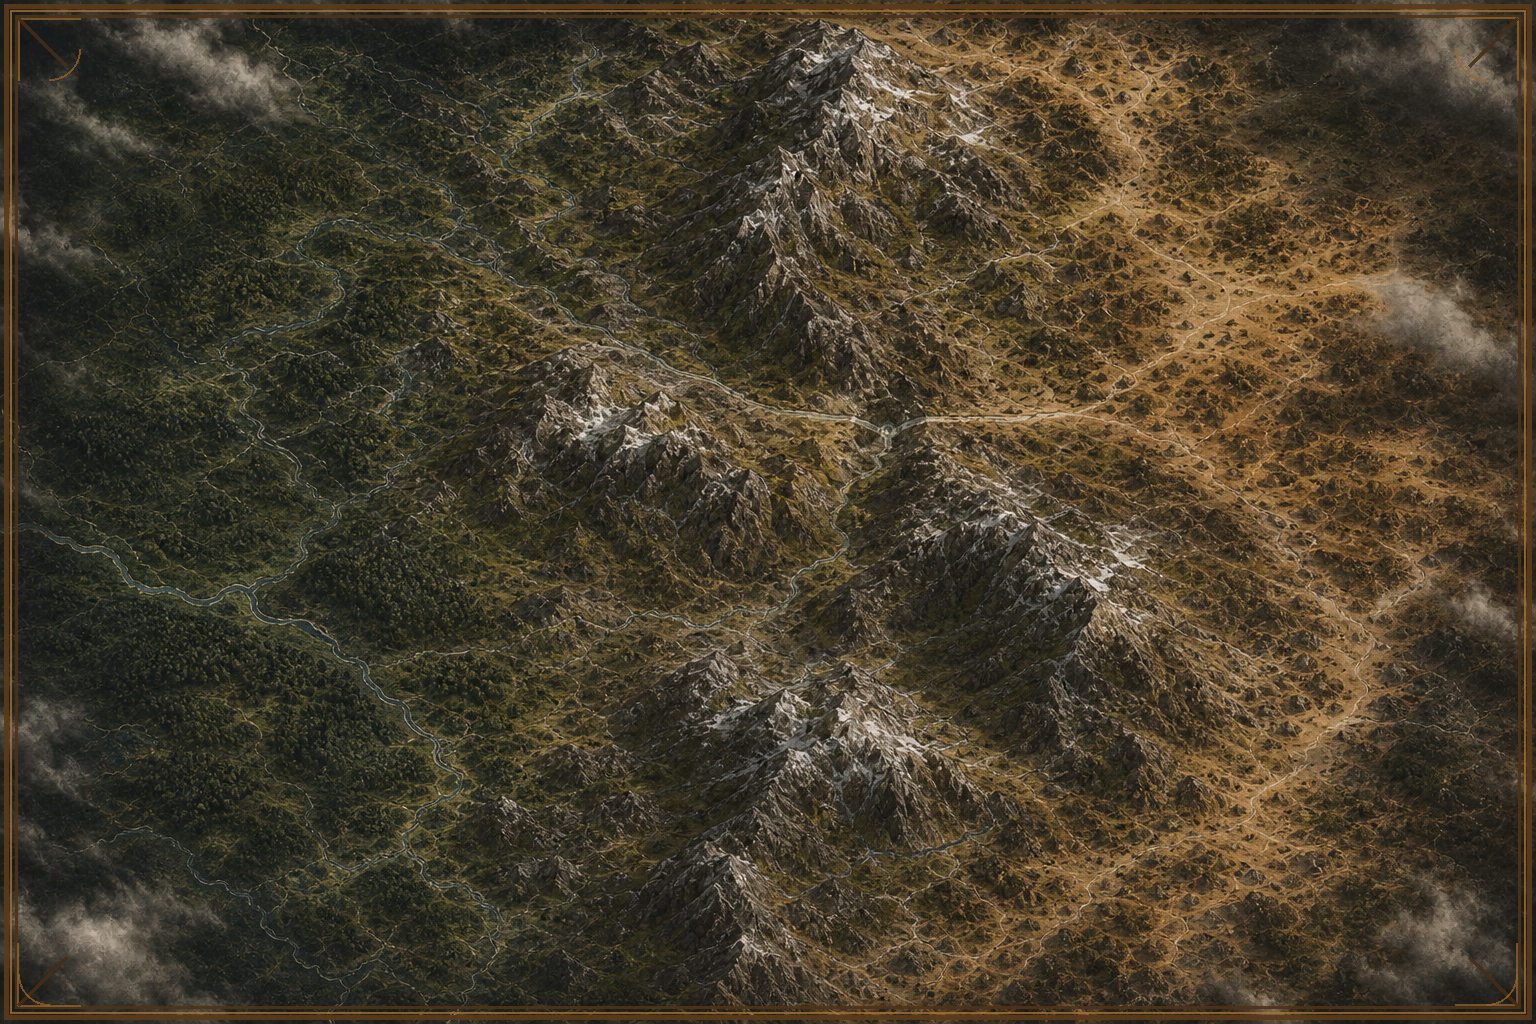
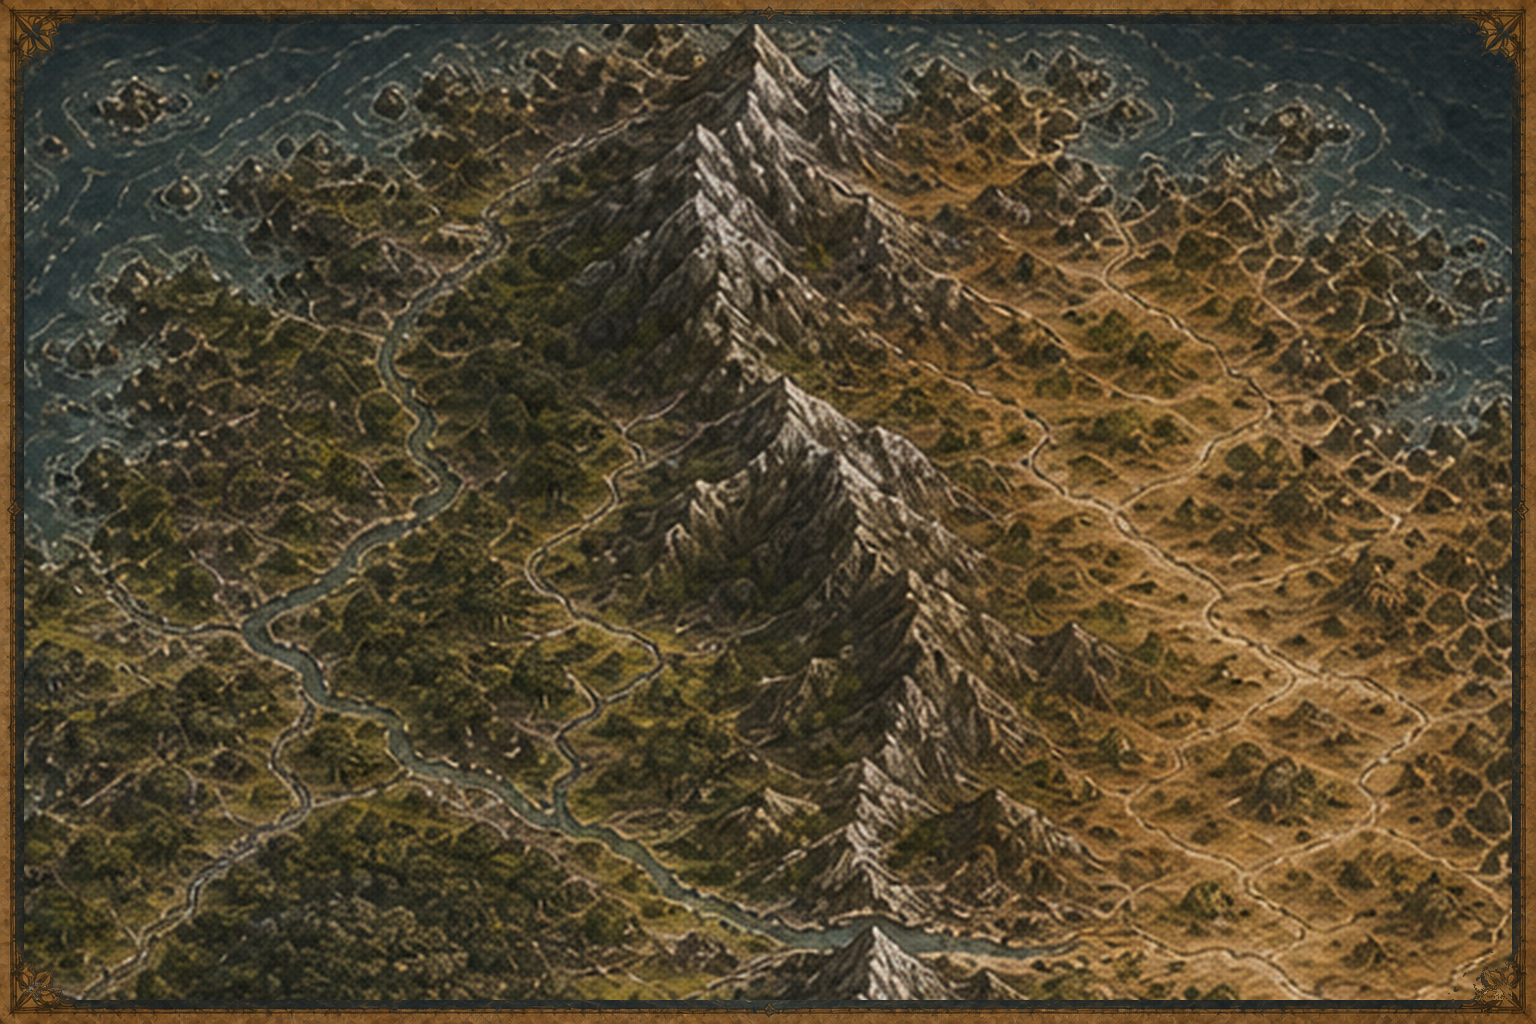
Anchor regional maps to Prototype 3 masters

diff --git a/14 - Assets/Maps/build_prototype3_regions.py b/14 - Assets/Maps/build_prototype3_regions.py
@@ -1,0 +1,133 @@
+#!/usr/bin/env python3
+"""Build selected regional sheets as literal Prototype 3 master enlargements.
+
+These four sheets previously drifted because image generation reinterpreted
+their geography. Each output now starts with an exact crop of its continent
+master. Resampling reveals the existing terrain at regional scale without
+inventing a new coastline, watershed, or river network.
+"""
+
+from __future__ import annotations
+
+from dataclasses import dataclass
+from pathlib import Path
+
+import numpy as np
+from PIL import Image, ImageEnhance, ImageFilter, PngImagePlugin
+
+
+ROOT = Path(__file__).resolve().parent
+PROTOTYPE = ROOT / "prototype3"
+SIZE = (1536, 1024)
+
+
+@dataclass(frozen=True)
+class Region:
+    output: str
+    parent: str
+    crop: tuple[int, int, int, int]
+
+
+# Crop boxes are (left, top, right, bottom) in the 1536 x 1024 masters.
+# Every box preserves the output's 3:2 aspect ratio.
+REGIONS = (
+    Region(
+        "Sacred-Core-Atlas.png",
+        "Maiethorn-Atlas.png",
+        (450, 330, 930, 650),
+    ),
+    Region(
+        "Rain-Wall-Atlas.png",
+        "Maiethorn-Atlas.png",
+        (500, 30, 1100, 430),
+    ),
+    Region(
+        "Chart-Run-Atlas.png",
+        "Strandoren-Atlas.png",
+        (360, 160, 1320, 800),
+    ),
+    Region(
+        "West-Water-Atlas.png",
+        "Strandoren-Atlas.png",
+        (0, 280, 960, 920),
+    ),
+)
+
+
+def apply_master_frame(image: Image.Image, master: Image.Image) -> Image.Image:
+    """Apply the parent's exact bronze rules and corner ornament."""
+    result = image.copy()
+    band = 24
+    result.paste(master.crop((0, 0, SIZE[0], band)), (0, 0))
+    result.paste(
+        master.crop((0, SIZE[1] - band, SIZE[0], SIZE[1])),
+        (0, SIZE[1] - band),
+    )
+    result.paste(master.crop((0, 0, band, SIZE[1])), (0, 0))
+    result.paste(
+        master.crop((SIZE[0] - band, 0, SIZE[0], SIZE[1])),
+        (SIZE[0] - band, 0),
+    )
+
+    # The corner flourishes extend beyond the rule. Copy only warm bronze
+    # pixels so no square of the master's ocean comes with the ornament.
+    master_pixels = np.asarray(master, dtype=np.int16)
+    red, green, blue = (
+        master_pixels[..., 0],
+        master_pixels[..., 1],
+        master_pixels[..., 2],
+    )
+    warm = (
+        (red > blue + 14)
+        & (green > blue + 4)
+        & (red > green + 4)
+        & ((red + green + blue) > 125)
+    )
+    corner_mask = np.zeros((SIZE[1], SIZE[0]), dtype=np.uint8)
+    corner = 96
+    for left, top in (
+        (0, 0),
+        (SIZE[0] - corner, 0),
+        (0, SIZE[1] - corner),
+        (SIZE[0] - corner, SIZE[1] - corner),
+    ):
+        area = warm[top : top + corner, left : left + corner]
+        corner_mask[top : top + corner, left : left + corner] = area * 255
+    mask = Image.fromarray(corner_mask, "L").filter(ImageFilter.GaussianBlur(0.4))
+    result.paste(master, (0, 0), mask)
+    return result
+
+
+def build(region: Region) -> None:
+    parent_path = PROTOTYPE / region.parent
+    master = Image.open(parent_path).convert("RGB")
+    if master.size != SIZE:
+        raise ValueError(f"{parent_path} must be {SIZE}, found {master.size}")
+
+    crop = master.crop(region.crop)
+    image = crop.resize(SIZE, Image.Resampling.LANCZOS)
+    # A restrained local-scale lift compensates for enlargement without
+    # changing Prototype 3's palette or weather.
+    image = ImageEnhance.Sharpness(image).enhance(1.12)
+    image = ImageEnhance.Contrast(image).enhance(1.02)
+    image = apply_master_frame(image, master)
+
+    metadata = PngImagePlugin.PngInfo()
+    metadata.add_text("atlas_parent", f"prototype3/{region.parent}")
+    metadata.add_text("atlas_crop", ",".join(map(str, region.crop)))
+    metadata.add_text(
+        "canon_note",
+        "Exact parent geography; incidental painted texture remains non-canon.",
+    )
+    output = ROOT / region.output
+    image.save(output, pnginfo=metadata, optimize=True)
+    print(f"Wrote {output} from {parent_path} crop {region.crop}")
+
+
+def main() -> None:
+    for region in REGIONS:
+        build(region)
+
+
+if __name__ == "__main__":
+    main()

diff --git a/00 - Core/Meta/Roadmap.md b/00 - Core/Meta/Roadmap.md
@@ -523,7 +523,7 @@ Ordinary-job characters who become structural pivots. Draw from offices 7.2–7.
 
 > Manual tally — update when checking boxes. (Story/Task counts, not epics.)
 
-- **Atlas follow-up:** 8 / 8 regional sheets rebuilt and visually reviewed ✅ **2026-09-01.** Prototype 3 continent masters remain authoritative for the selected set; region-parent provenance and the non-canon interpolation boundary are recorded on [[The Atlas Sheets]] and [[Map Generation Tooling]]. Rain-Wall uses offset massifs, saddles, foothills, river notches, and pass gaps. Thaeloren remains the only exceptional Tree. World book untouched.
+- **Atlas follow-up:** 8 / 8 regional sheets rebuilt and visually reviewed ✅ **2026-09-01.** Second review corrected four parent-continuity failures: Sacred Core, Rain-Wall, Chart-run, and West Water are now deterministic literal enlargements from Prototype 3 masters via `build_prototype3_regions.py`. Region-parent provenance and the non-canon interpolation boundary are recorded on [[The Atlas Sheets]] and [[Map Generation Tooling]]. Thaeloren remains the only exceptional Tree. World book untouched.
 - **Epic 7 leftover — sick-Tree / guest-grove:** 4 / 4 tasks (100%) ✅ **2026-08-31.** [[The Mill-hold]] (Hands un-Hands; mill-race vs roots) · [[The First Bowl]] (guest-grove; two settings of one bowl). Lead road-end still a type. World book untouched.
 - **Pass two — verification:** 3 / 3 tasks of P2.1 (100%) ✅ **Story P2.1 complete 2026-08-31.** Later pass-two stories undecomposed. C-01 resolved; C-05 resolved in passing with the opening. **C-02 resolved 2026-08-31** by user-requested world-book rebuild. **C-06 resolved 2026-08-31** (Kumbaan "few or no Trees" hedge → no Tree).
 - **Epic 9 — Secrets & Canon:** 4 / 4 tasks of Story 9.1 (100%) ✅ **architecture done 2026-08-31.** Hub [[Revelation Architecture]] · [[Reveal Index]]. Clues [[The Uncoloured Intake]] · [[The Closed Lamp]]. Still alongside for new `reveals:`.

diff --git a/14 - Assets/Maps/Map Generation Tooling.md b/14 - Assets/Maps/Map Generation Tooling.md
@@ -116,6 +116,14 @@ local-scale detail required by the regional subject.
 | R7 Live Front | `prototype3/Heskoren-Atlas.png` |
 | R8 Waiting Vale | `prototype3/Heskoren-Atlas.png` |
 
+Four sheets that failed the visual parent-continuity check are now built as literal master enlargements rather than fresh generations:
+
+```bash
+python3 "14 - Assets/Maps/build_prototype3_regions.py"
+```
+
+The script records the parent filename and crop rectangle in each PNG. Sacred Core and Rain-Wall come directly from Maiethorn; Chart-run and West Water come directly from Strandoren. It applies the parent's own bronze rules and corner ornament after enlargement. Do not replace those four with independently generated scenes: local detail is allowed only as an overpaint that leaves the inherited pixels legible.
+
 **Visual review gate.** Reject a regional render if it becomes a whole continent or island, rotates/mirrors the parent, reverses a named river, adds text, introduces an exceptional Tree outside Sacred Core, or changes settlement scale. Reject Rain-Wall unless the divide is visibly made of irregular offset massifs, broad saddles, branching foothills, river-cut notches, and usable pass gaps. Match the selected set's dark teal weather, muted moss/umber land, iron-gall detail, and bronze frame.
 
 **Interpolation remains non-canon.** Minor tributaries, unnamed roofs, exact paths, field divisions, forest edges, rocks, and weather decoration are rendering texture only. A generated detail enters canon only after it is reconciled and named in the vault.

diff --git a/00 - Core/Concept/Build Plan.md b/00 - Core/Concept/Build Plan.md
@@ -18,7 +18,7 @@ updated: 2026-09-01
 
 ## Active next
 
-**Atlas follow-up complete (2026-09-01).** Prototype 3 remains the selected master set. All eight regional sheets were rebuilt as label-free child views of Maiethorn, Strandoren, and Heskoren, visually reviewed, and recorded on [[The Atlas Sheets]] and [[Map Generation Tooling]]. Incidental generated detail is non-canon. World book untouched.
+**Atlas follow-up complete (2026-09-01).** Prototype 3 remains the selected master set. All eight regional sheets were rebuilt as label-free child views of Maiethorn, Strandoren, and Heskoren. A second visual review replaced the drifting Sacred Core, Rain-Wall, Chart-run, and West Water scenes with reproducible literal master enlargements (`build_prototype3_regions.py`). [[The Atlas Sheets]] and [[Map Generation Tooling]] record the contract. Incidental generated detail is non-canon. World book untouched.
 
 **Leftovers 1 / 3 / 7 / 9 done (2026-08-31).** Conditions cross-link · climate/ecology · sick-Tree / guest-grove · revelation architecture. [[Roadmap#Epic 10 — Campaign|Epic 10]] Story 10.1 remains done — kit [[The Opening]], hub [[The Isolated Fall]]. Later campaign stories and remaining pass-two work stay undecomposed until asked. Epic R remains **closed**. Gate: [[Epic R Completion Gate 2026-08-31]]. Log: [[Contradictions]] (C-05 resolved in passing; **C-02** world-book rebuild; **C-06** Kumbaan Tree-hedge, 2026-08-31).
 

diff --git a/14 - Assets/Maps/The Atlas Sheets.md b/14 - Assets/Maps/The Atlas Sheets.md
@@ -89,6 +89,7 @@ No graft. No city. The wall is the climate.
 ## Regional rebuild review — 2026-09-01
 
 - All eight sheets use the dark, weather-forward Prototype 3 portolan hand, slate-teal water, and bronze frame.
+- **Continuity correction:** Sacred Core, Rain-Wall, Chart-run, and West Water were re-reviewed after the first regional pass and replaced with literal crops enlarged from their parent masters. Their visible terrain and hydrology are now parent pixels, not image-generation reinterpretations. Rebuild them with `build_prototype3_regions.py`.
 - Old Crossing retains the two facing Old World shores. Chart-run runs east into its established estuary. West Water remains the sparse open-ocean face.
 - Sacred Core keeps Thaeloren as the sole exceptional Tree; every other grove or graft is an ordinary map mark.
 - Rain-Wall uses offset weathered massifs, broad saddles, branching foothills, river-cut notches, and pass gaps rather than a straight ridge.
